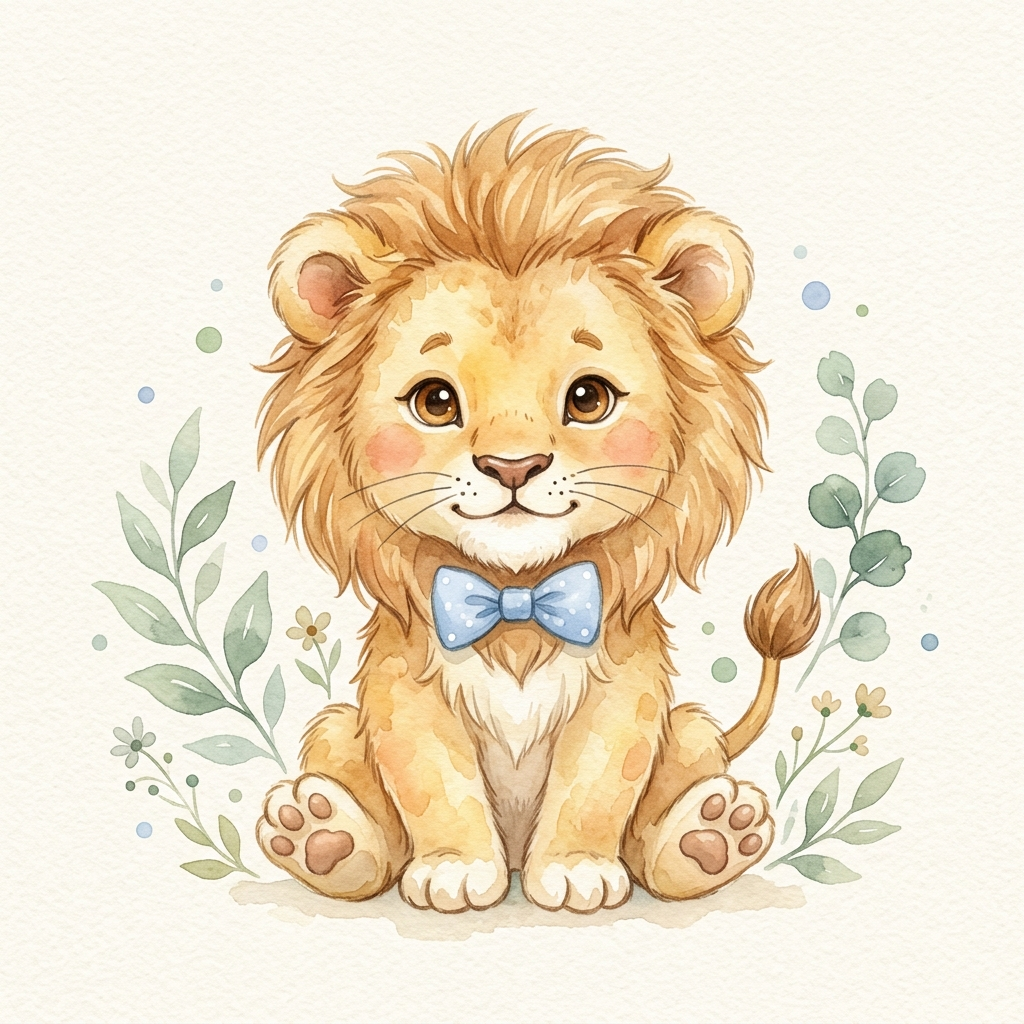
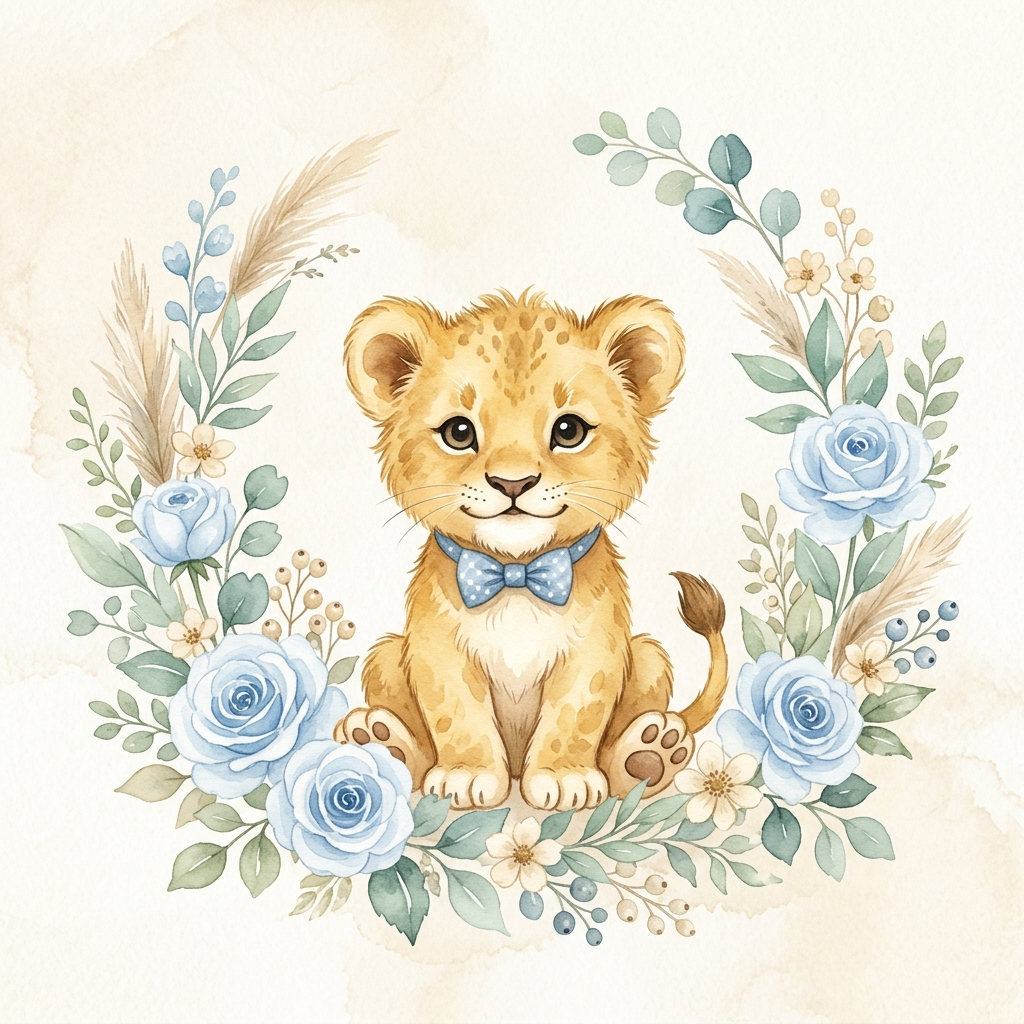
design: update global background to match elegant invitation style from ejemplo.png

diff --git a/src/app/globals.css b/src/app/globals.css
@@ -33,8 +33,8 @@
 body {
   font-family: var(--font-sans);
   color: var(--text-main);
-  background-image: linear-gradient(rgba(245, 249, 252, 0.88), rgba(235, 242, 247, 0.88)), url('/pastel_jungle_bg.png');
-  background-size: 320px;
+  background-image: linear-gradient(rgba(245, 249, 252, 0.82), rgba(235, 242, 247, 0.82)), url('/pastel_blue_floral_bg.png');
+  background-size: 380px;
   background-repeat: repeat;
   background-attachment: fixed;
   min-height: 100vh;
